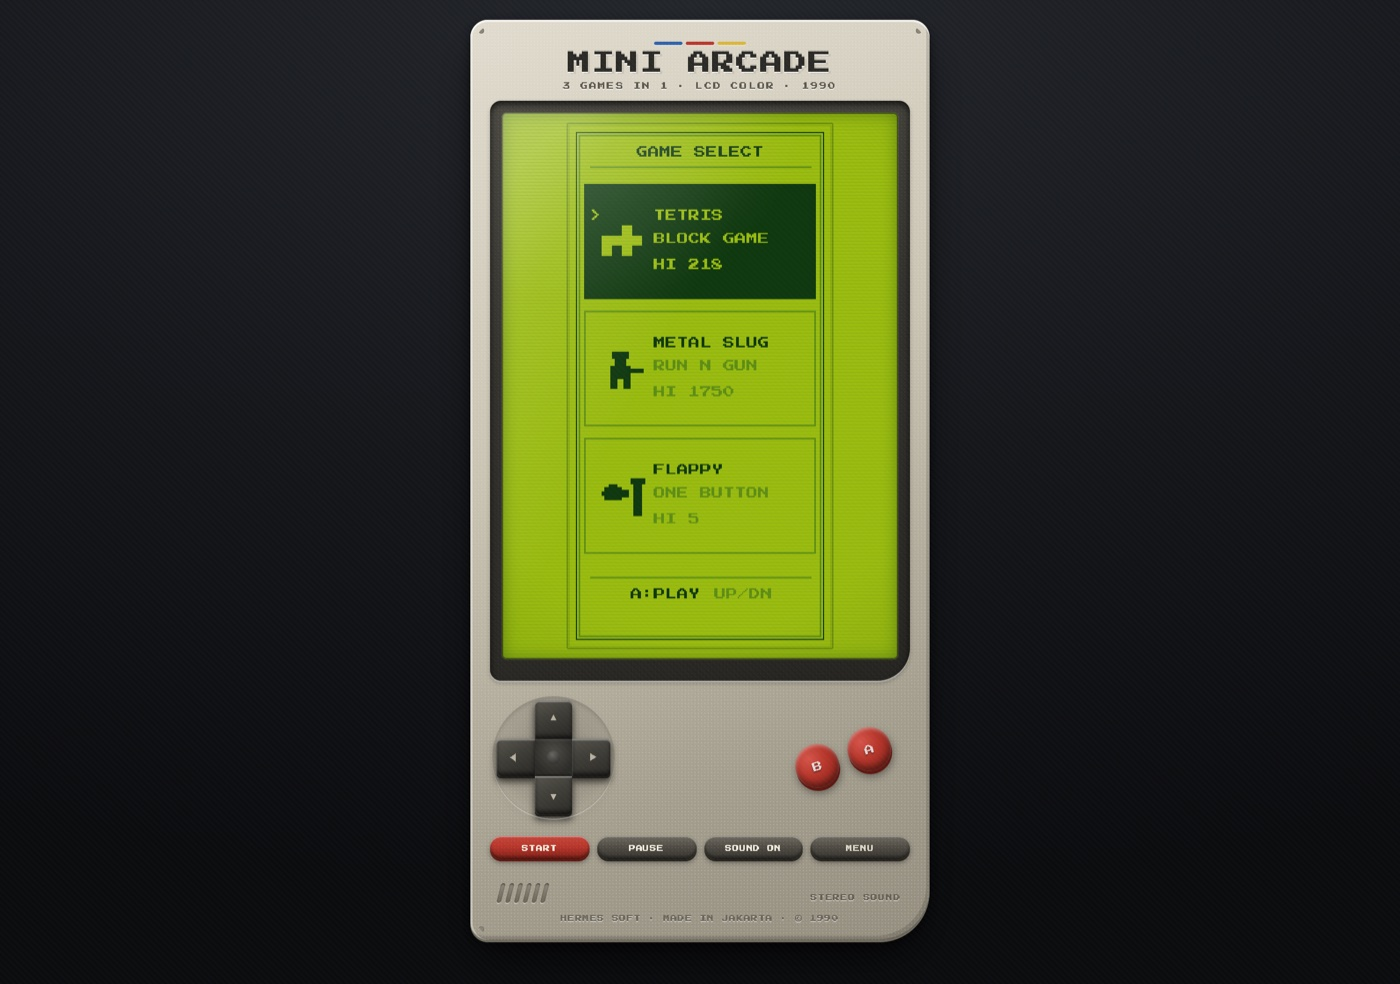
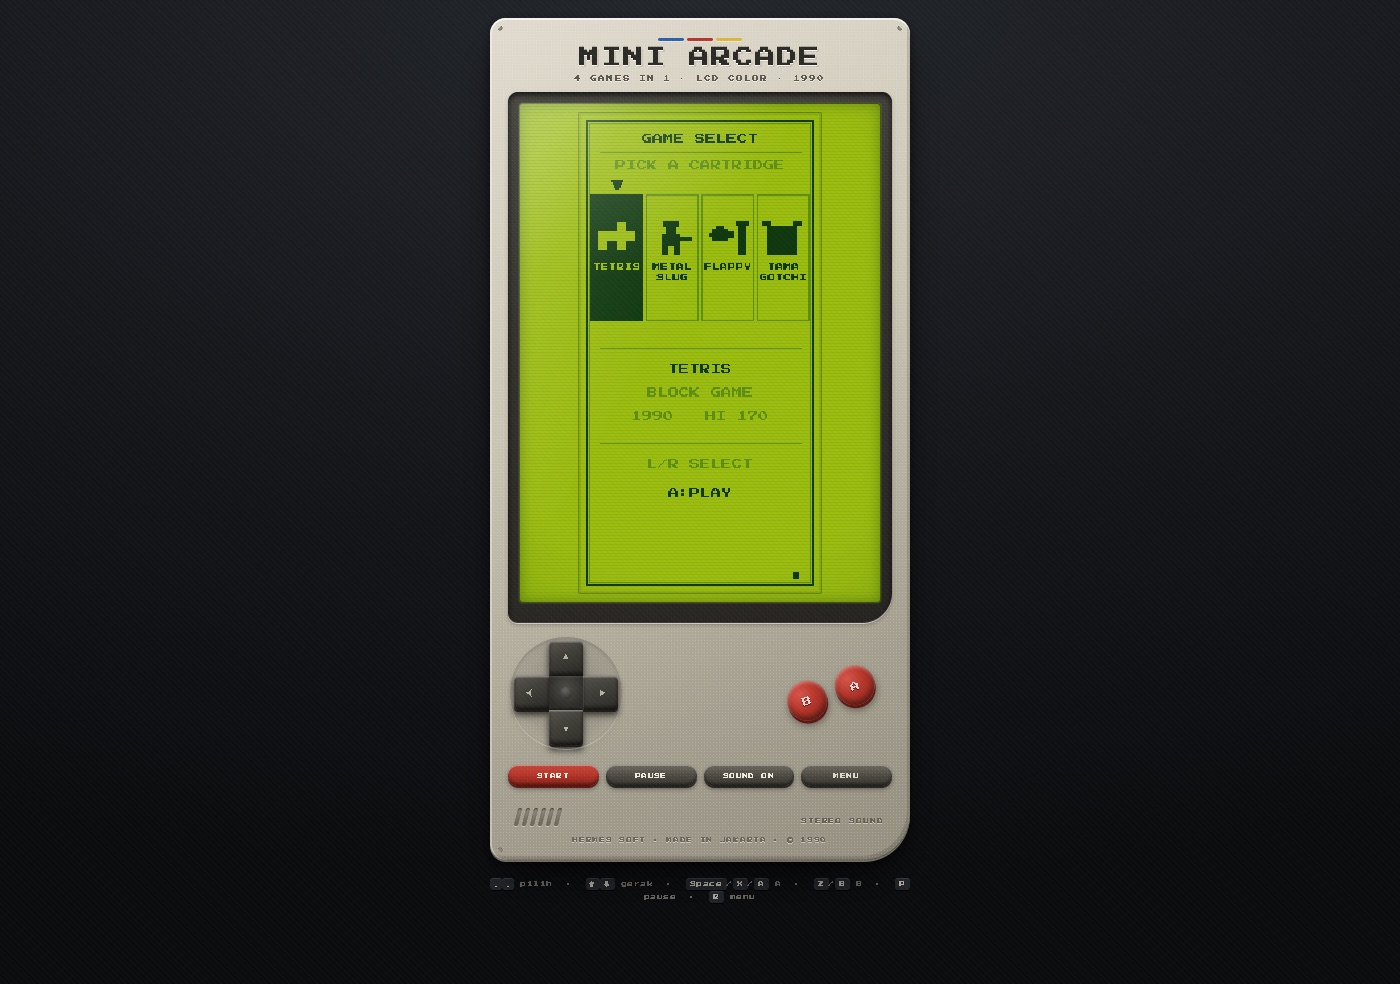
fix: keyboard A/B berfungsi + menu jadi grid 1 baris
- main.js: tambah huruf a/A dan b/B ke KEYMAP (sebelumnya hanya
  Space/X untuk A dan Z untuk B, jadi tombol A/B keyboard mati)
- menu.js: ubah GAME SELECT dari daftar vertikal menjadi grid
  1 baris x 4 kolom (ikon + nama, tile terpilih terbalik,
  penunjuk segitiga), info game terpilih di bawah; navigasi
  kiri/kanan (up/down tetap jalan sebagai alias)
- index.html: petunjuk overlay & pagehint ikut disesuaikan
- tests: +2 cek navigasi grid (total 38, semua lulus)
- docs: screenshot menu diperbarui

Changed region(s): [[0.3379, 0.0, 0.6757, 0.9756]]

diff --git a/js/menu.js b/js/menu.js
@@ -1,7 +1,7 @@
 /* ============================================================
    MENU — GAME SELECT
-   Layar pemilihan cartridge: daftar game dengan ikon, skor
-   tertinggi, dan sorotan terbalik khas LCD.
+   Layar pemilihan cartridge: grid satu baris (ikon + nama),
+   info game terpilih, dan sorotan terbalik khas LCD.
    ============================================================ */
 
 window.MINIGAME = window.MINIGAME || {};
@@ -10,10 +10,10 @@ window.MINIGAME = window.MINIGAME || {};
   'use strict';
 
   var ITEMS = [
-    { id: 'tetris',   name: 'TETRIS',      sub: 'BLOCK GAME',  year: '1990' },
-    { id: 'metalslug', name: 'METAL SLUG', sub: 'RUN N GUN',   year: '1996' },
-    { id: 'flappy',   name: 'FLAPPY',      sub: 'ONE BUTTON',  year: '2013' },
-    { id: 'tamagochi', name: 'TAMAGOTCHI', sub: 'VIRTUAL PET', year: '1996' }
+    { id: 'tetris',   name: 'TETRIS',      sub: 'BLOCK GAME',  year: '1990', lines: ['TETRIS'] },
+    { id: 'metalslug', name: 'METAL SLUG', sub: 'RUN N GUN',   year: '1996', lines: ['METAL', 'SLUG'] },
+    { id: 'flappy',   name: 'FLAPPY',      sub: 'ONE BUTTON',  year: '2013', lines: ['FLAPPY'] },
+    { id: 'tamagochi', name: 'TAMAGOTCHI', sub: 'VIRTUAL PET', year: '1996', lines: ['TAMA', 'GOTCHI'] }
   ];
 
   /* ---------- ikon mini, digambar dengan kotak ---------- */
@@ -84,8 +84,8 @@ window.MINIGAME = window.MINIGAME || {};
       };
 
       self.input = function (action) {
-        if (action === 'up') { move(-1); return true; }
-        if (action === 'down') { move(1); return true; }
+        if (action === 'up' || action === 'left') { move(-1); return true; }
+        if (action === 'down' || action === 'right') { move(1); return true; }
         if (action === 'a' || action === 'start') {
           api.sfx.confirm();
           api.launch(ITEMS[sel].id);
@@ -105,47 +105,59 @@ window.MINIGAME = window.MINIGAME || {};
         /* judul */
         L.textCenter(ctx, 'GAME SELECT', 90, 14, 8);
         L.line(ctx, 14, 28, 166, 28, L.PAL.mid);
+        L.textCenter(ctx, 'PICK A CARTRIDGE', 90, 34, 8, L.PAL.mid);
 
-        /* daftar game */
-        var top = 40;
-        var rowH = 88;
+        /* ---------- grid 1 baris × N kolom ---------- */
+        var cols = ITEMS.length;
+        var gap = 2;
+        var tileW = 40;
+        var tileH = 96;
+        var totalW = cols * tileW + (cols - 1) * gap;
+        var x0 = Math.round((180 - totalW) / 2);
+        var tileY = 60;
 
-        for (var i = 0; i < ITEMS.length; i++) {
+        for (var i = 0; i < cols; i++) {
           var it = ITEMS[i];
-          var y = top + i * rowH;
+          var x = x0 + i * (tileW + gap);
           var active = i === sel;
 
           if (active) {
-            L.box(ctx, 10, y, 160, rowH - 8, L.PAL.ink);
+            L.box(ctx, x, tileY, tileW, tileH, L.PAL.ink);
           } else {
-            L.frame(ctx, 10, y, 160, rowH - 8, L.PAL.mid);
+            L.frame(ctx, x, tileY, tileW, tileH, L.PAL.mid);
           }
 
           var fg = active ? L.PAL.bg : L.PAL.ink;
+          icon(ctx, it.id, x + 4, tileY + 14, fg);
 
-          icon(ctx, it.id, 20, y + 22, fg);
-
-          L.text(ctx, it.name, 58, y + 18, 8, fg);
-          L.text(ctx, it.sub, 58, y + 34, 8, active ? L.PAL.bg : L.PAL.mid);
-
-          var hi = api.hi.get(it.id) || 0;
-          L.text(ctx, 'HI ' + hi, 58, y + 52, 8, active ? L.PAL.bg : L.PAL.mid);
-
-          if (active) {
-            /* penanda pilihan */
-            L.text(ctx, '>', 14, y + 18, 8, L.PAL.bg);
+          var lines = it.lines || [it.name];
+          for (var li = 0; li < lines.length; li++) {
+            L.textCenter(ctx, lines[li], x + tileW / 2, tileY + 52 + li * 8, 6, fg);
           }
         }
 
+        /* penunjuk pilihan di atas tile aktif */
+        var cx = Math.round(x0 + sel * (tileW + gap) + tileW / 2);
+        L.box(ctx, cx - 4, tileY - 11, 9, 2, L.PAL.ink);
+        L.box(ctx, cx - 3, tileY - 9, 7, 2, L.PAL.ink);
+        L.box(ctx, cx - 2, tileY - 7, 5, 2, L.PAL.ink);
+        L.box(ctx, cx - 1, tileY - 5, 3, 2, L.PAL.ink);
+
+        /* ---------- info game terpilih ---------- */
+        var cur = ITEMS[sel];
+        L.line(ctx, 14, 176, 166, 176, L.PAL.mid);
+        L.textCenter(ctx, cur.name, 90, 188, 8, L.PAL.ink);
+        L.textCenter(ctx, cur.sub, 90, 206, 8, L.PAL.mid);
+        L.textCenter(ctx, cur.year + '   HI ' + (api.hi.get(cur.id) || 0), 90, 224, 8, L.PAL.mid);
+
         /* petunjuk bawah */
-        var hy = 320;
-        L.line(ctx, 14, hy - 8, 166, hy - 8, L.PAL.mid);
-        L.textCenter(ctx, 'A:PLAY', 66, hy, 8, L.PAL.ink);
-        L.text(ctx, 'UP/DN', 100, hy, 8, L.PAL.mid);
+        L.line(ctx, 14, 248, 166, 248, L.PAL.mid);
+        L.textCenter(ctx, 'L/R SELECT', 90, 260, 8, L.PAL.mid);
+        L.textCenter(ctx, 'A:PLAY', 90, 282, 8, L.PAL.ink);
 
         /* kedip kecil di kanan bawah */
         if (blink < 550) {
-          L.box(ctx, 160, 348, 5, 5, L.PAL.ink);
+          L.box(ctx, 160, 346, 5, 5, L.PAL.ink);
         }
       };
 

diff --git a/index.html b/index.html
@@ -65,7 +65,7 @@
         <div class="overlay" id="overlay" data-state="ready">
           <p class="overlay__title" id="ovTitle">MINI ARCADE</p>
           <p class="overlay__msg" id="ovMsg">PRESS START</p>
-          <p class="overlay__hint" id="ovHint">&uarr;&darr; pilih game &middot; A main</p>
+          <p class="overlay__hint" id="ovHint">&larr;&rarr; pilih game &middot; A main</p>
         </div>
       </div>
     </div>
@@ -110,10 +110,10 @@
   </div>
 
   <p class="pagehint">
-    <kbd>&uarr;</kbd><kbd>&darr;</kbd> pilih &nbsp;·&nbsp;
-    <kbd>&larr;</kbd><kbd>&rarr;</kbd> gerak &nbsp;·&nbsp;
-    <kbd>Space</kbd>/<kbd>X</kbd> A &nbsp;·&nbsp;
-    <kbd>Z</kbd> B &nbsp;·&nbsp;
+    <kbd>&larr;</kbd><kbd>&rarr;</kbd> pilih &nbsp;·&nbsp;
+    <kbd>&uarr;</kbd><kbd>&darr;</kbd> gerak &nbsp;·&nbsp;
+    <kbd>Space</kbd>/<kbd>X</kbd>/<kbd>A</kbd> A &nbsp;·&nbsp;
+    <kbd>Z</kbd>/<kbd>B</kbd> B &nbsp;·&nbsp;
     <kbd>P</kbd> pause &nbsp;·&nbsp;
     <kbd>R</kbd> menu
   </p>

diff --git a/tests/smoke.console.js b/tests/smoke.console.js
@@ -29,6 +29,16 @@
   check('game awal adalah menu', g.def.id, 'menu');
   check('panel skor disembunyikan di menu', document.getElementById('panel').hidden, true);
 
+  /* ---------- 1b. MENU GRID: navigasi kiri/kanan ---------- */
+  g.input('right'); g.input('right'); g.input('right');
+  g.input('a');
+  check('menu grid: navigasi kanan sampai TAMAGOTCHI', g.def.id, 'tamagochi');
+  g.menu();
+  g.input('left'); g.input('left');
+  g.input('a');
+  check('menu grid: navigasi kiri membungkus ke FLAPPY', g.def.id, 'flappy');
+  g.menu();
+
   /* ---------- 2. TETRIS ---------- */
   g.launch('tetris');
   check('tetris: state awal', g.game.state, 'ready');

diff --git a/js/main.js b/js/main.js
@@ -282,7 +282,9 @@
     ' ': 'a',
     Spacebar: 'a',
     x: 'a', X: 'a',
+    a: 'a', A: 'a',
     z: 'b', Z: 'b',
+    b: 'b', B: 'b',
     Enter: 'start',
     p: 'pause', P: 'pause',
     Escape: 'reset',

diff --git a/README.md b/README.md
@@ -66,7 +66,9 @@ senang, sedih, mati).
 
 | Aksi | Keyboard | Tombol device |
 | --- | --- | --- |
-| Pilih game | `↑` `↓` | D-pad atas / bawah |
+| Pilih game (grid) | `←` `→` (atau `↑` `↓`) | D-pad kiri / kanan |
+| Tombol A | `Space` / `X` / `A` | `A` |
+| Tombol B | `Z` / `B` | `B` |
 | Pause / lanjut | `P` | `PAUSE` |
 | Mulai / ulang ronde | `Enter` | `START` |
 | Kembali ke menu | `R` / `Esc` | `MENU` |
@@ -100,7 +102,7 @@ Semua tombol punya `aria-label`.
 │   └── main.js              # wiring device, loop, input, panel skor, auto-fit
 ├── assets/fonts/            # Press Start 2P (woff2) + lisensi OFL
 ├── docs/                    # screenshot README
-└── tests/smoke.console.js   # smoke test 36 cek (jalankan di Console browser)
+└── tests/smoke.console.js   # smoke test 38 cek (jalankan di Console browser)
 ```
 
 ## Detail teknis
@@ -136,7 +138,7 @@ __game.menu()                  // kembali ke menu
 ```
 
 **Smoke test:** buka `index.html?debug=1`, tempel isi `tests/smoke.console.js` ke Console.
-Hasilnya **36 cek PASS/FAIL** yang mencakup: boot menu, Tetris (blok terkunci, skor, panel),
+Hasilnya **38 cek PASS/FAIL** yang mencakup: boot menu + navigasi grid kiri/kanan, Tetris (blok terkunci, skor, panel),
 Metal Slug (gerak, lompat, mendarat, menembak), Flappy (gravitasi, kepak, skor pipa),
 Tamagotchi (usia & stat berjalan, menu aksi, FEED/PLAY, mati saat diabaikan), dan kembali ke menu.
 
